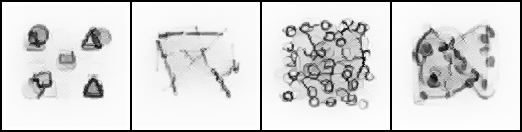
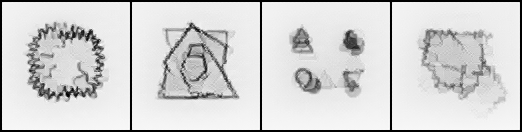
Adding noise to transformer during training and creating more data

diff --git a/model/properties.py b/model/properties.py
@@ -1,49 +1,47 @@
 PROPERTY_VOCAB = {
     # Basic functions
-    "LEFT": 0, "RIGHT": 1, "EXISTS": 2, "EXACTLY": 3, "GREATERLA": 4,
-    "MORESIMLA": 5, "GREATERLLA": 6, "MORE": 7, "EQUALNUM": 8, "GET": 9,
-    "INSIDE": 13, "ALIGNED": 15, "HIGH": 16, "LOW": 17,
+    "LEFT", "RIGHT", "EXISTS", "EXACTLY", "GREATERLA",
+    "MORESIMLA", "GREATERLLA", "MORE", "EQUALNUM", "GET",
+    "INSIDE", "ALIGNED", "HIGH", "LOW", 
+    "REGULAR", # Regular is in the context of the images or images
+    
     # New Additions
-    "CEASES": 41, # Opposite of EXISTS
-    "LESSERLA": 42, # Opposite of GREATERLA
-    "UNION": 47, # Together
-    "DIFFNUM": 61, # almost opposite of equalnum, varying number of something
-    "LESSSIMLA": 62, # Opposite of MORESIMLA
-    "LESS": 63, # Opposite of MORE
-    "CROSSES": 64, # something crossing something, or something crosses
-    "LESSERLLA": 12, # Opposite of GREATERLLA
-
+    "CEASES",  # Opposite of EXISTS
+    "LESSERLA",  # Opposite of GREATERLA
+    "UNION",  # Together
+    "DIFFNUM",  # almost opposite of equalnum, varying number of something
+    "LESSSIMLA",  # Opposite of MORESIMLA
+    "LESS",  # Opposite of MORE
+    "CROSSES",  # something crossing something, or something crosses
+    "LESSERLLA",  # Opposite of GREATERLLA
 
     # Shapes
-    "CIRCLES": 22, "FIGURES": 23, "QUADRILATERALS": 24, "TRIANGLES": 25, 
+    "CIRCLES", "FIGURES", "QUADRILATERALS", "TRIANGLES",
+    
     # New Additions
-    "LINES": 48, #Lines are more specific figures which are not joined by the ends
+    "LINES",  # Lines are more specific figures which are not joined by the ends
 
-    # FIGURES AND OTHER SHAPES ARE ALWAYS TERMINAL
-    
     # Attributes
-    "AREA": 26, "CONVEXITY": 27, "ORIENTATION": 28, "XPOS": 29, "NCORNERS": 30,
-    "YPOS": 31, "COMPACTNESS": 32, "ELONGATION": 33, "DISTANCE": 34,
-    "HOLES": 35, "HULLS": 36, "BIG": 18, "SMALL": 19, "SOLID": 20, "OUTLINE": 21,
-    # new Additions
-    "CURVATURE": 43, # How curvy something is
-    "VERTICAL": 45, # How much vertical height something is
-    "HORIZONTAL": 46, # How much horizontal height something is
-    "AREA": 59, # The area of something    
-    "ANGLES": 60, # Angles, HIGH angle means wide obtuse angle, LOW angle means sharp acute angle
-    "SYMMETRY": 44, # The Symmetric properties of something, can be used with vertical, horizontal & exactly or exists
+    "AREA", "CONVEXITY", "CONCAVITY", "ORIENTATION", "XPOS", "NCORNERS",
+    "YPOS", "COMPACTNESS", "ELONGATION", "DISTANCE",
+    "HOLES", "HULLS", "BIG", "SMALL", "SOLID", "OUTLINE",
     
+    # New Additions
+    "CURVATURE",  # How curvy something is
+    "VERTICAL",  # How much vertical height something is
+    "HORIZONTAL",  # How much horizontal height something is
+    "ANGLES",  # Angles, HIGH angle means wide obtuse angle, LOW angle means sharp acute angle
+    "SYMMETRY",  # The Symmetric properties of something, can be used with vertical, horizontal & exactly or exists
+
     # Quantifiers
-    "ONE": 37, "TWO": 38, "THREE": 39, "FOUR": 40,
+    "ONE", "TWO", "THREE", "FOUR",
 
     # Directions (New addition)
-    "LEFTD": 49, "RIGHTD": 50, "UP": 51, "DOWN": 52, # Adding D to thr end of LEFT and RIGHT to denote they are used for directions
-    "MIDDLE": 53, "START": 54, "END": 55,
-    "CLOCKWISE": 56, "COUNTERCLOCKWISE": 57,
-    "OUTSIDE": 66,
-    "INCREASING": 10, "DECREASING": 11,
-    "ON": 65, # Something is on something
-    "MOVING": 58 # Uses one of the above 
-
-
+    "LEFTD", "RIGHTD", "UP", "DOWN",  # Adding D to the end of LEFT and RIGHT to denote they are used for directions
+    "MIDDLE", "START", "END",
+    "CLOCKWISE", "COUNTERCLOCKWISE",
+    "OUTSIDE",
+    "INCREASING", "DECREASING",
+    "ON",  # Something is on something
+    "MOVING"  # Uses one of the above
 }

diff --git a/model/transformer_model.py b/model/transformer_model.py
@@ -2,7 +2,7 @@ import torch
 import torch.nn as nn
 
 class TextToImageTransformer(nn.Module):
-    def __init__(self, vocab_size, embedding_dimensions=512, total_attention_heads=16, total_encoder_layers=8, max_token_size=64):
+    def __init__(self, vocab_size, embedding_dimensions=512, total_attention_heads=16, total_encoder_layers=8, max_token_size=64, latent_dim=128):
         super().__init__()
 
         # Embedding 
@@ -18,6 +18,9 @@ class TextToImageTransformer(nn.Module):
 
         self.left_generator = self.build_generator(embedding_dimensions)
         self.right_generator = self.build_generator(embedding_dimensions)
+
+        self.noise_projection = nn.Linear(latent_dim, embedding_dimensions)
+        self.latent_dim = latent_dim
 
     def build_generator(self, embedding_dimensions):
         return nn.Sequential(
@@ -53,7 +56,12 @@ class TextToImageTransformer(nn.Module):
         attention_weights = torch.softmax(torch.sum(transformer_output, dim=-1), dim=1)
         context_vector = torch.sum(transformer_output * attention_weights.unsqueeze(-1), dim=1)
 
-        # Split and generate images
+        if self.training:
+            batch_size = text.size(0)
+            noise = torch.randn(batch_size, self.latent_dim, device=text.device)
+            noise_embedding = self.noise_projection(noise)
+            context_vector = context_vector + 0.1 * noise_embedding
+
         split_context_vector = self.split_embedding(context_vector)
         left_embedding, right_embedding = split_context_vector.chunk(2, dim=1)
         left_image = self.left_generator(left_embedding)

diff --git a/executables/generate_images.py b/executables/generate_images.py
@@ -26,8 +26,8 @@ def generate_and_save_images(model, tokeniser, text, device, output_dir="../outp
         left, right = model(text_tensor)
     
     timestamp = datetime.now().strftime("%Y%m%d_%H%M%S")
-    left_path = os.path.join(output_dir, f"left_[VGG_weight_layers]-3.png")
-    right_path = os.path.join(output_dir, f"right_[VGG_weight_layers]-3.png")
+    left_path = os.path.join(output_dir, f"left_[More_Noise_during_training]-3.png")
+    right_path = os.path.join(output_dir, f"right_[More_Noise_during_training]-3.png")
     
     save_image(left, left_path, normalize=True)
     save_image(right, right_path, normalize=True)

diff --git a/executables/train.py b/executables/train.py
@@ -42,10 +42,11 @@ def main():
         "embedding_dimensions": 512,
         "total_attention_heads": 16,
         "total_encoder_layers": 8,
-        "max_token_size": 64
+        "max_token_size": 64,
+        "latent_dim": 128
     }
 
-    with open("config.json", "w") as output:
+    with open("../model/config.json", "w") as output:
         json.dump(config, output)
 
     model.train()
